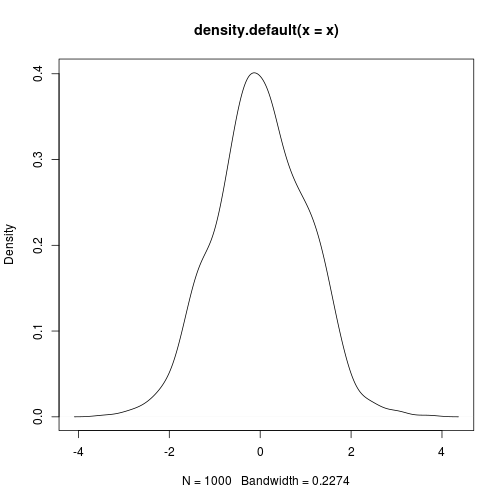
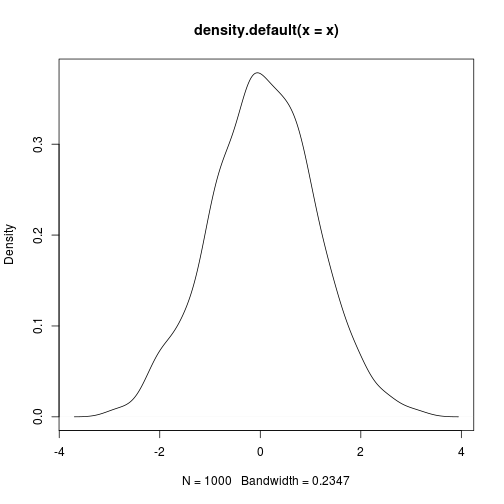
cleaning up

diff --git a/_episodes/02-literate-programming.md b/_episodes/02-literate-programming.md
@@ -245,7 +245,7 @@ plot(density(x))
 head(x)
 </code></pre>
 
-<pre><code>## [1] -0.7060215 -0.7536301 -2.5110508 -1.8531740  0.8036938 -0.1394521
+<pre><code>## [1]  0.12144253 -0.44967167  1.70512442 -0.44942038  0.04998372 -2.02348204
 </code></pre>
 
 <p><code>knitr</code> offers a lot of control over representing different
@@ -254,7 +254,7 @@ computed on the fly.</p>
 
 <p>The mean \(\bar{x} = \frac{1}{n} \sum_{i=1}^{n} x_{i}\) of the
 1000 random variates we generated is
-0.015.</p>
+0.014.</p>
 
 <p>This figure is computed on-the-fly as well. No more
 copy-paste, including for figures:</p>
@@ -262,7 +262,7 @@ copy-paste, including for figures:</p>
 <pre><code class="r">plot(density(x))
 </code></pre>
 
[2 lines of base64/hex data omitted]
 
 
 

diff --git a/_episodes/04-bibliographic-citations.md b/_episodes/04-bibliographic-citations.md
@@ -16,19 +16,18 @@ keypoints:
 output: html_document
 ---
 
-```{r chunk_options, include=FALSE}
-source("../bin/chunk-options.R")
-knitr_fig_path("03-")
-```
+
 
 
 ## Defining your bibliography
 
 Out of the box, RStudio and Knitr use the built-in citation rendering that pandoc provides. We set this in the `YAML` header information at the top of our R Markdown document. Pandoc can read a bibliographic file in various formats, including: MODS, BibLaTex, BibTex, RIS, EndNote, MEDLINE, etc. These are formats that provide a structured way to store a list of references. Let's take a look at the BibTex file we provided for this workshop:
 
-```{bash, eval=F}
+
+~~~
 head -n 10 decoupling-dns.bib
-```
+~~~
+{: .r}
 
 We see elements of an reference entry: `@Article` is the type, `cite:4` is citation-key, and other more elements of a reference. To tell RStudio to use our BibTex file we add `bibliography` key to our document header. 
 

diff --git a/_episodes/rmd_example.md b/_episodes/rmd_example.md
@@ -7,7 +7,7 @@ head(x)
 ```
 
 ```
-## [1]  1.8370456 -0.0115060  0.6763399 -0.2925544 -0.5489790  1.0532107
+## [1] -1.16375140 -0.48232892 -0.04950121 -1.94006228 -0.16842030  0.87071515
 ```
 
 `knitr` offers a lot of control over representing different
@@ -16,7 +16,7 @@ computed on the fly.
 
 The mean $\bar{x} = \frac{1}{n} \sum_{i=1}^{n} x_{i}$ of the
 1000 random variates we generated is
-0.018.
+0.051.
 
 This figure is computed on-the-fly as well. No more
 copy-paste, including for figures:

diff --git a/_episodes_rmd/rmd_example.md b/_episodes_rmd/rmd_example.md
@@ -7,7 +7,7 @@ head(x)
 ```
 
 ```
-## [1] -0.7060215 -0.7536301 -2.5110508 -1.8531740  0.8036938 -0.1394521
+## [1]  0.12144253 -0.44967167  1.70512442 -0.44942038  0.04998372 -2.02348204
 ```
 
 `knitr` offers a lot of control over representing different
@@ -16,7 +16,7 @@ computed on the fly.
 
 The mean $\bar{x} = \frac{1}{n} \sum_{i=1}^{n} x_{i}$ of the
 1000 random variates we generated is
-0.015.
+0.014.
 
 This figure is computed on-the-fly as well. No more
 copy-paste, including for figures:
